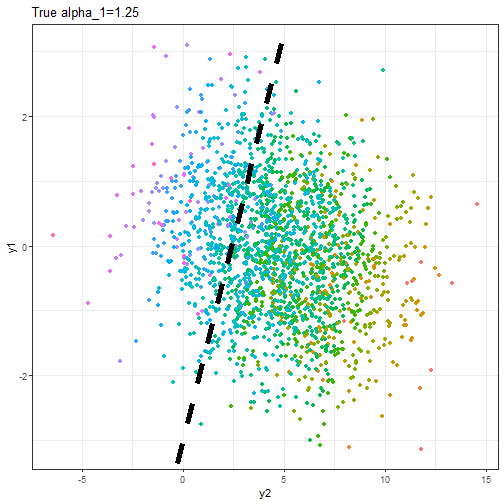
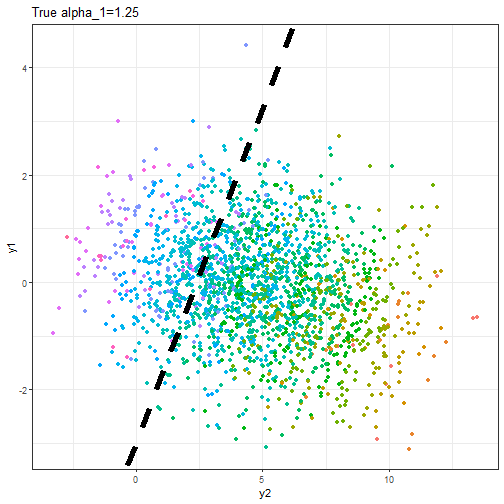
13 html

diff --git a/13-Simultaneous-equations/13-Simultaneous-equations.html b/13-Simultaneous-equations/13-Simultaneous-equations.html
@@ -378,19 +378,19 @@ class: MSU
 ## 
 ## Residuals:
 ##     Min      1Q  Median      3Q     Max 
-## -9.2775 -1.5422  0.0323  1.5469  7.5325 
+## -7.5952 -1.4754  0.0175  1.5563  7.2024 
 ## 
 ## Coefficients:
 ##             Estimate Std. Error t value Pr(&gt;|t|)    
-## (Intercept)  0.12854    0.21016   0.612    0.541    
-## z1           2.14986    0.06087  35.321   &lt;2e-16 ***
-## z2           0.11406    0.04589   2.486    0.013 *  
+## (Intercept) -0.02559    0.20373  -0.126 0.900037    
+## z1           2.13774    0.06176  34.616  &lt; 2e-16 ***
+## z2           0.14994    0.04434   3.382 0.000734 ***
 ## ---
 ## Signif. codes:  0 '***' 0.001 '**' 0.01 '*' 0.05 '.' 0.1 ' ' 1
 ## 
-## Residual standard error: 2.243 on 1997 degrees of freedom
-## Multiple R-squared:  0.3848,	Adjusted R-squared:  0.3841 
-## F-statistic: 624.4 on 2 and 1997 DF,  p-value: &lt; 2.2e-16
+## Residual standard error: 2.224 on 1997 degrees of freedom
+## Multiple R-squared:  0.3777,	Adjusted R-squared:  0.3771 
+## F-statistic:   606 on 2 and 1997 DF,  p-value: &lt; 2.2e-16
 ```
 ---
 class: MSU 
@@ -405,20 +405,20 @@ class: MSU
 ## lm(formula = y1 ~ y2hat + z1, data = df1)
 ## 
 ## Residuals:
-##      Min       1Q   Median       3Q      Max 
-## -2.95773 -0.68250 -0.00565  0.65057  3.12552 
+##     Min      1Q  Median      3Q     Max 
+## -3.1401 -0.6468 -0.0100  0.6112  4.2041 
 ## 
 ## Coefficients:
 ##             Estimate Std. Error t value Pr(&gt;|t|)    
-## (Intercept)  -0.2038     0.1075  -1.895   0.0582 .  
-## y2hat         1.6639     0.1711   9.723   &lt;2e-16 ***
-## z1           -3.9568     0.3678 -10.757   &lt;2e-16 ***
+## (Intercept) -0.02378    0.08582  -0.277    0.782    
+## y2hat        1.26227    0.12812   9.852   &lt;2e-16 ***
+## z1          -3.03395    0.27544 -11.015   &lt;2e-16 ***
 ## ---
 ## Signif. codes:  0 '***' 0.001 '**' 0.01 '*' 0.05 '.' 0.1 ' ' 1
 ## 
-## Residual standard error: 0.954 on 1997 degrees of freedom
-## Multiple R-squared:  0.1384,	Adjusted R-squared:  0.1376 
-## F-statistic: 160.4 on 2 and 1997 DF,  p-value: &lt; 2.2e-16
+## Residual standard error: 0.9636 on 1997 degrees of freedom
+## Multiple R-squared:  0.1121,	Adjusted R-squared:  0.1112 
+## F-statistic:   126 on 2 and 1997 DF,  p-value: &lt; 2.2e-16
 ```
 
 
@@ -427,7 +427,7 @@ class: MSU
 # Simultaneity
 
 ### The second-stage coefficient
-We get a pretty accurate estimate for `\(\alpha_1=1.66\)` from the second-stage having used `\(z_2\)` to instrument for `\(y_2\)`.
+We get a pretty accurate estimate for `\(\alpha_1=1.26\)` from the second-stage having used `\(z_2\)` to instrument for `\(y_2\)`.
 
 ---
 class: MSU
